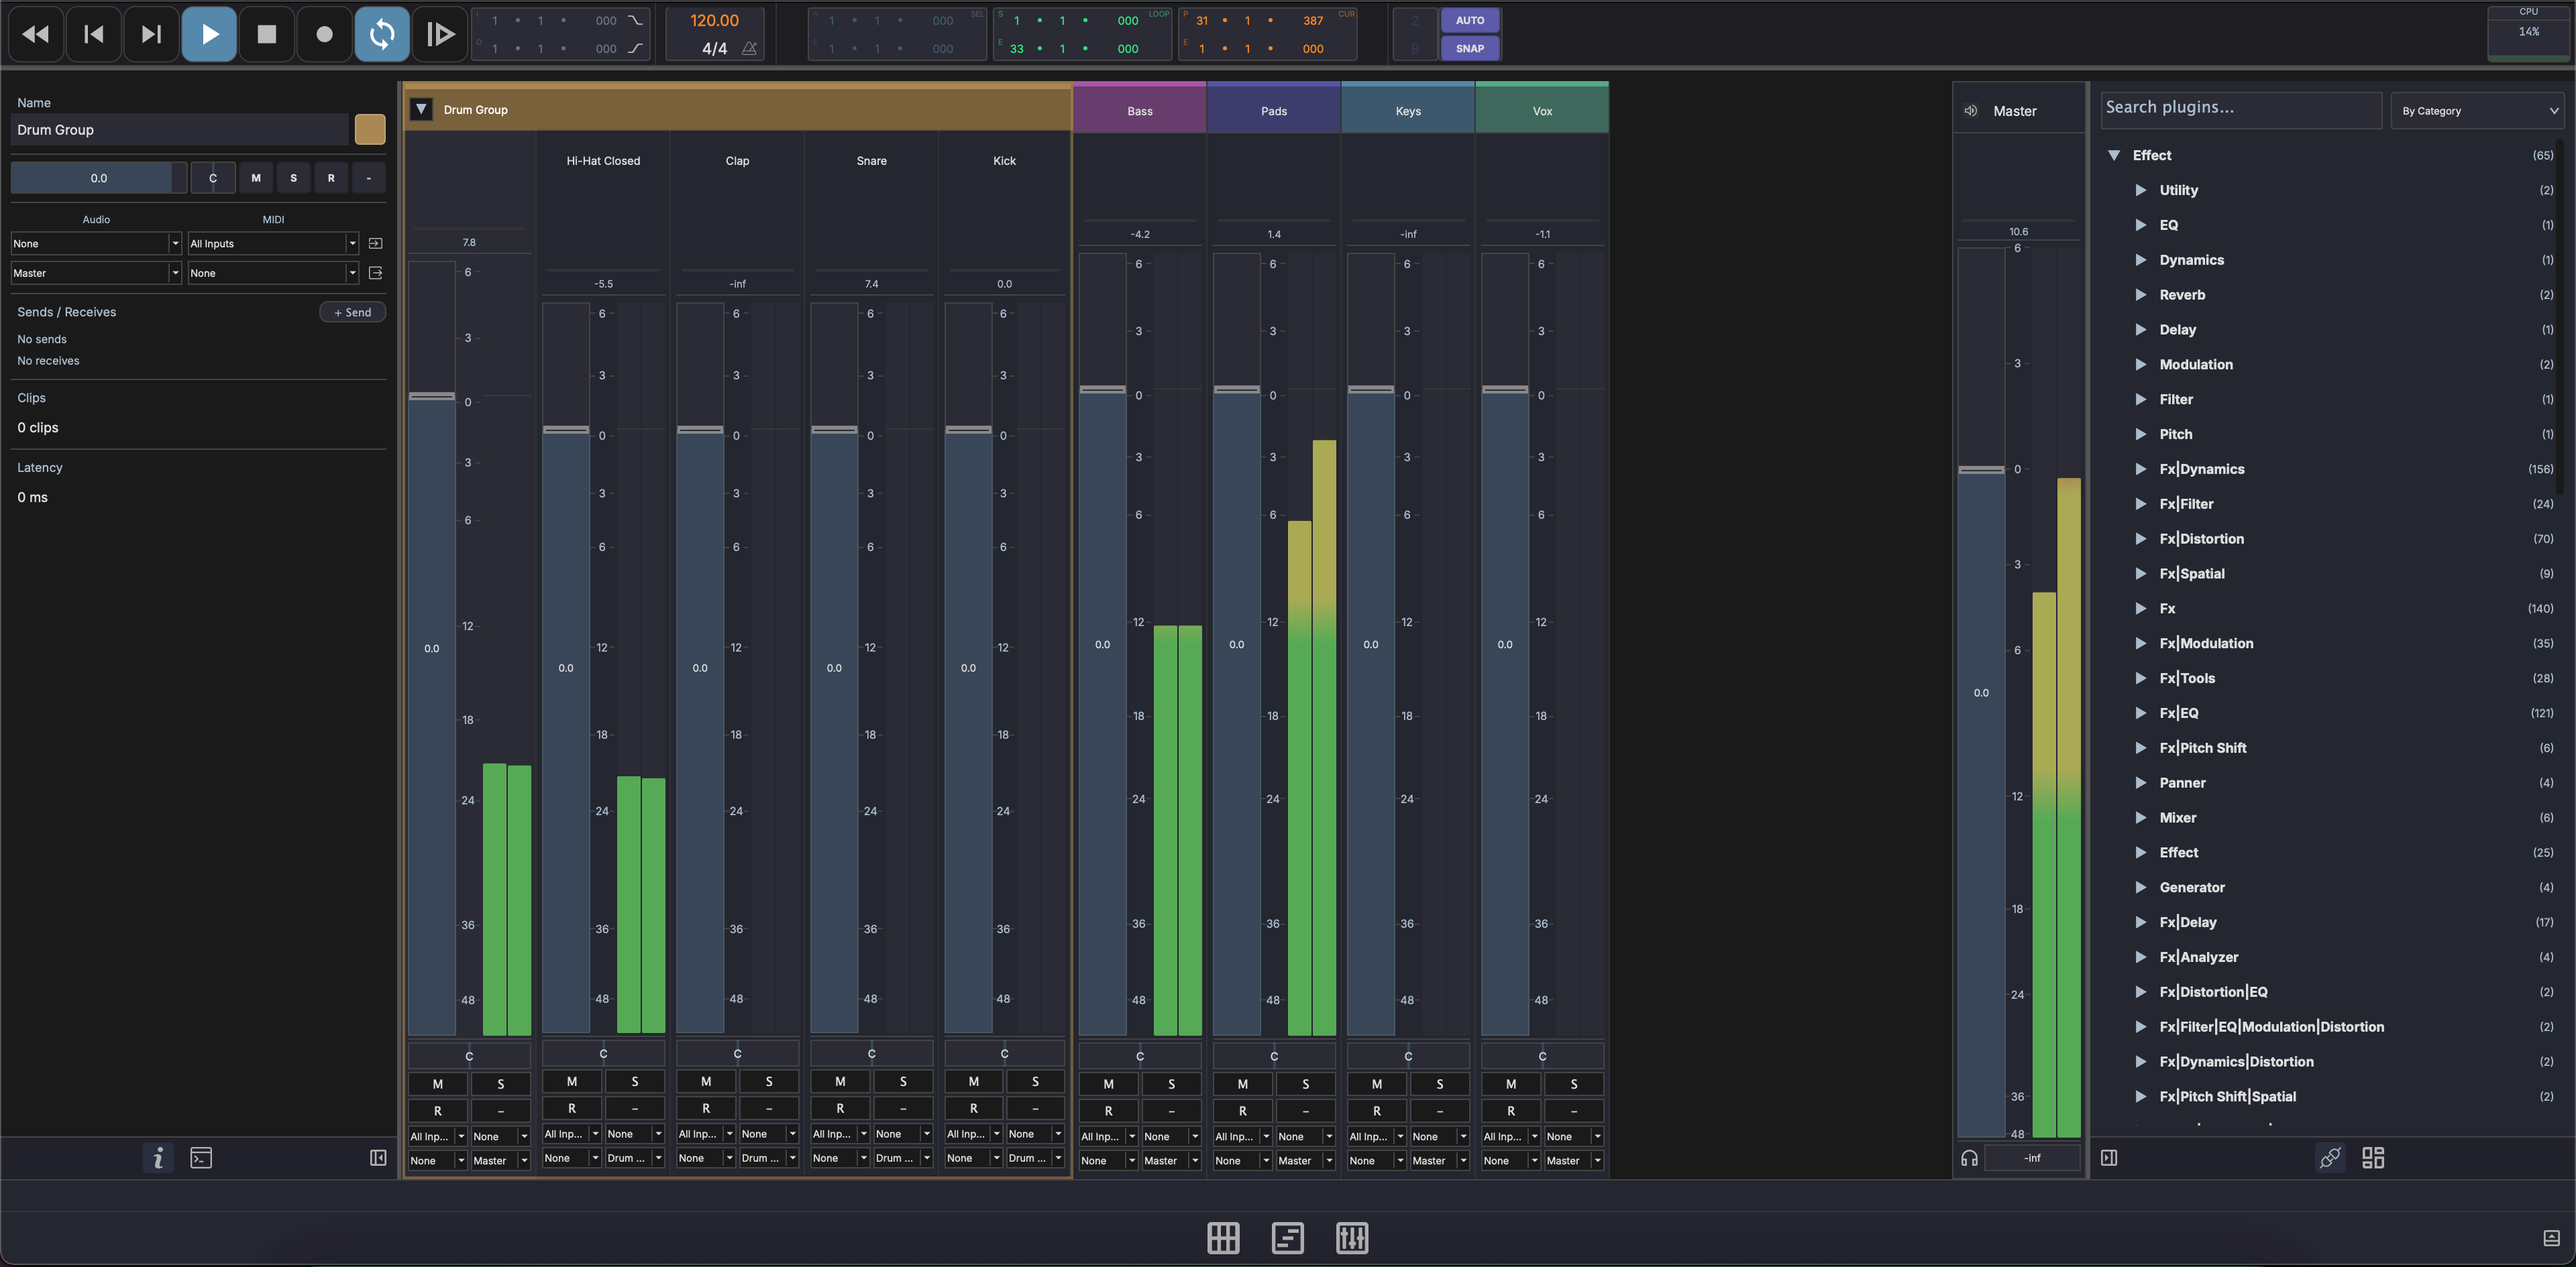
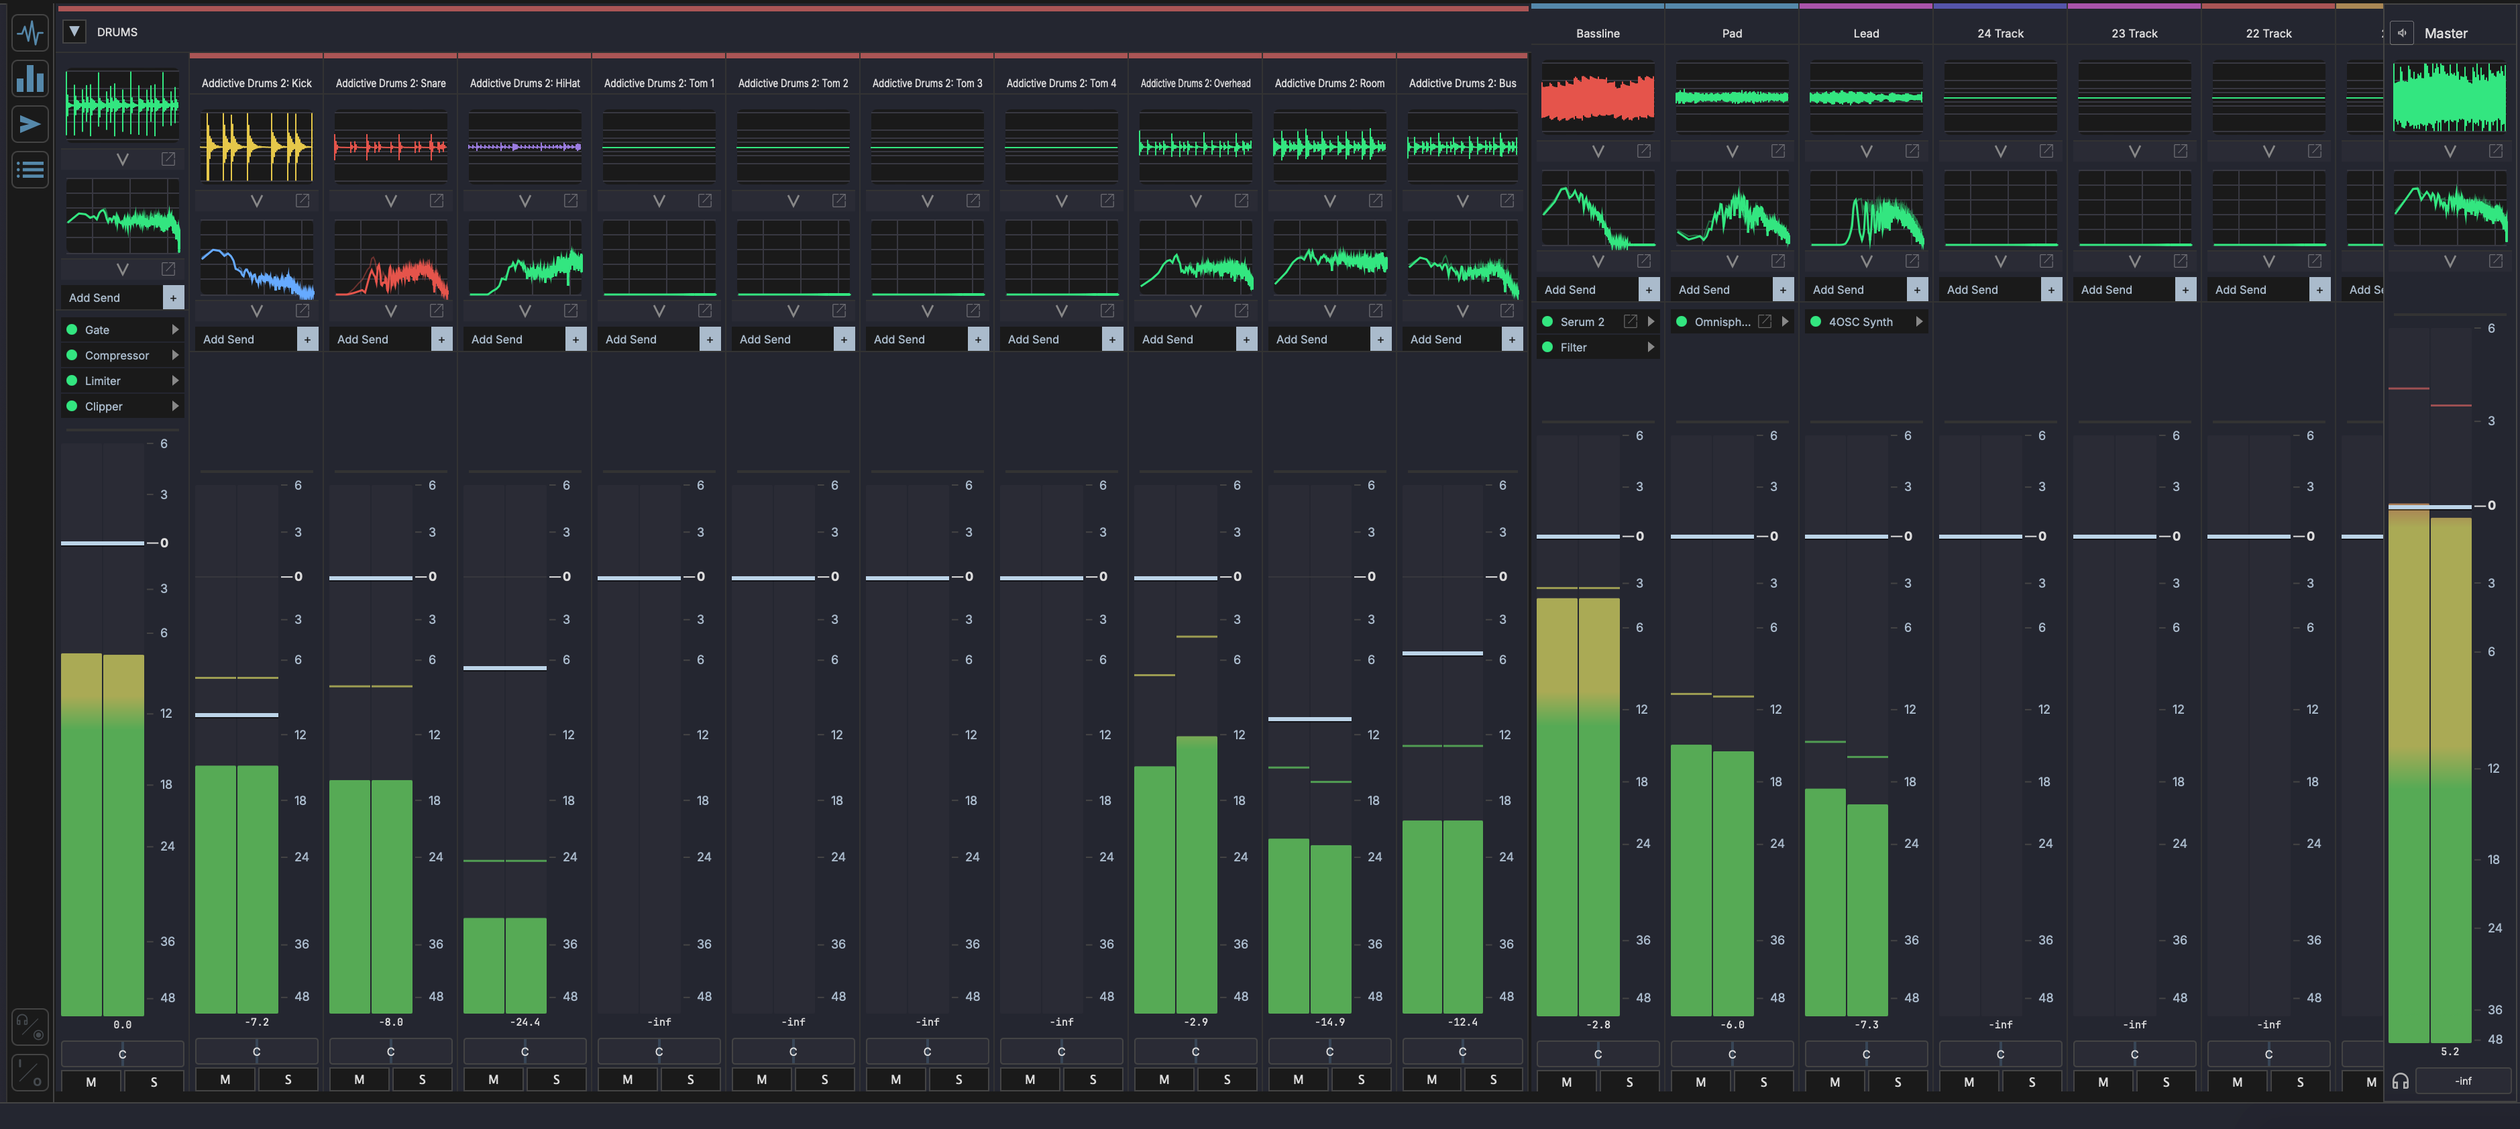
Update manual for 0.10
- New Analysis devices page (Oscilloscope + Spectrum) and nav entry
- FX Chain: Post-FX section and Gain Staging
- Mixer View: toggle rail, mini FX chain, mini analyzers, fader-over-
  meter with dB readout, auto-sized sends; refreshed screenshot
- Session View: mini-mixer toggle rail; refreshed screenshot
- Keyboard Shortcuts: remappable note + mouse/trackpad gestures table
- Preferences: Keyboard + Gestures tabs, auto-hide scrollbars
- Live input highlight (piano roll + drum grid), sample arrow-key
  auditioning

diff --git a/manual/docs/mixer-view.md b/manual/docs/mixer-view.md
@@ -30,17 +30,30 @@ The Mixer View provides a channel-strip interface for balancing levels, panning,
 
 Click a channel strip to select it. Drag plugins onto a channel strip to add them to the track's FX chain.
 
+## Toggle Rail
+
+A vertical rail of toggles runs down the left edge of the mixer. Each button shows or hides a row across every channel strip, so you can pare the mixer back to just the controls you need:
+
+- **Sends** — the send section
+- **I/O** — input and output routing selectors
+- **Monitor** — input monitoring controls
+- **Oscilloscope** — a mini oscilloscope per strip
+- **Spectrum** — a mini spectrum analyzer per strip
+- **FX Chain** — the strip's mini FX chain
+
+The rail's on/off state is remembered between sessions.
+
 ## Channel Strip Controls
 
 Each channel strip provides:
 
 ### Volume Fader
 
-Drag the fader to adjust the track's output level. The dB scale is displayed alongside the fader.
+Drag the fader to adjust the track's output level. The fader sits over the track's peak meter, with the current level shown as a dB readout below the thumb.
 
 ### Level Meters
 
-Stereo level meters (L/R) show the real-time signal level. A peak label displays the highest level reached — watch for clipping.
+The peak meter sits directly behind the fader and shows the real-time signal level. A peak value displays the highest level reached — watch for clipping.
 
 ### Pan
 
@@ -57,6 +70,14 @@ The pan control positions the track in the stereo field, from hard left to hard 
 
 The track name and color bar are displayed at the bottom of each strip for identification.
 
+### Mini FX Chain
+
+With the **FX Chain** toggle on, each strip shows a compact version of the track's FX chain. Each device row surfaces a handful of its parameters as faders, so you can tweak an effect without leaving the mixer. Choose exactly which parameters appear per device from the **Mini** column in the [parameter config dialog](plugin-parameters.md) — if none are chosen, the strip falls back to the device's first visible parameters. Third-party plugins also show a button to open their own UI; native MAGDA devices do not.
+
+### Mini Analyzers
+
+With the **Oscilloscope** or **Spectrum** toggle on, a mini [analyzer](devices/analysis.md) appears on each strip that carries the matching device. Click the expand chevron to unfold its controls beneath the trace, or the pop-out button to open the full analyzer in its own floating window.
+
 ## Master Channel Strip
 
 The master strip controls the final output level of the mix. It has its own volume fader, meters, and pan control but no mute/solo/record buttons.
@@ -72,13 +93,13 @@ Each channel strip has routing selectors for:
 
 ## Sends
 
-Each channel strip has a send section for routing audio to auxiliary buses.
+Each channel strip has a send section for routing audio to auxiliary buses. Show or hide it with the **Sends** toggle in the rail.
 
 - **Add a send** — Create a new send slot to route signal to an aux track
 - **Send level** — Adjust how much signal is sent to the aux bus
 - **Remove a send** — Click the remove button on a send slot to delete it
 
-The send section is resizable — drag the resize handle to show more or fewer send slots.
+The send section sizes itself to the number of sends across your tracks, so every strip stays aligned.
 
 ## Multi-Output Plugins
 

diff --git a/manual/docs/devices/analysis.md b/manual/docs/devices/analysis.md
@@ -1,0 +1,32 @@
+# Analysis (Oscilloscope & Spectrum)
+
+MAGDA ships two real-time analysis devices, an **Oscilloscope** and a **Spectrum Analyzer**. They tap the signal passing through them and draw it; they do not change the audio. Drag either from the Plugin Browser onto any track's FX chain, or add it to the [post-FX area](../fx-chain.md#post-fx-section) of a track or the master.
+
+Both devices also appear as compact [mini analyzers](../mixer-view.md#mini-analyzers) on the mixer strips, and either can be popped out into its own always-on-top window from the **open-in-window** button in the device header.
+
+## Oscilloscope
+
+The Oscilloscope draws the waveform in the time domain. It triggers on a zero crossing so the trace holds still instead of scrolling, and renders a stable min/max envelope of the signal.
+
+| Control | What it does |
+|---------|--------------|
+| **Timebase** | How much time the display spans, from a few milliseconds up to a few seconds. Shorter shows individual cycles; longer shows the overall envelope. |
+| **Trace colour** | Pick the waveform colour from a small set of swatches. The choice is saved with the device. |
+
+dBFS reference lines mark the amplitude scale so you can read level at a glance.
+
+## Spectrum Analyzer
+
+The Spectrum Analyzer draws the frequency content of the signal. It runs a windowed FFT and plots magnitude against a logarithmic frequency axis.
+
+| Control | What it does |
+|---------|--------------|
+| **FFT size** | Resolution of the analysis. Larger gives finer frequency detail at the cost of a slower response. |
+| **Slope** | Tilts the display by a fixed dB-per-octave amount, so a natural spectrum reads flatter and high-frequency detail is easier to see. |
+| **Smoothing** | How quickly the curve reacts — slower smoothing is steadier, faster is more responsive. |
+| **Trace colour** | Pick the curve colour from a small set of swatches. |
+
+A **peak-hold** line sits on top of the live curve, marking the highest level reached in each band. The frequency axis runs across the audible range with a dB magnitude scale down the side.
+
+!!! note
+    Both analyzers refresh continuously and add no latency or gain to the signal, so you can leave them inserted anywhere in a chain. In the post-FX area, only one Oscilloscope and one Spectrum Analyzer can exist per track.

diff --git a/manual/docs/fx-chain.md b/manual/docs/fx-chain.md
@@ -89,3 +89,24 @@ Click the **+** button next to "Chains" to add a new parallel chain.
 ### Collapsible Devices
 
 Individual devices inside a rack can be collapsed to save space. Click the collapse button on a device to shrink it to a compact header. The rack resizes dynamically as devices are collapsed or expanded. Collapsed states are preserved when the chain rebuilds (e.g. when adding or removing devices).
+
+## Post-FX Section
+
+In addition to the main FX chain, every track and the master have a **post-FX area** — a stage that runs *after* the main chain and *before* the track fader. It is the natural home for meters and analyzers, but any effect can live there.
+
+Toggle the post-FX area from the buttons in the track chain header, then drop an [Oscilloscope or Spectrum Analyzer](devices/analysis.md), or any effect, into it. The panel opens automatically when a track has post-FX devices.
+
+!!! note
+    Each analyzer kind is unique per track in the post-FX area — one Oscilloscope and one Spectrum Analyzer at most — while regular effects can repeat.
+
+## Gain Staging
+
+Gain staging trims the output of every device in a chain so the whole chain holds a target headroom, without adjusting each one by hand.
+
+Open it from the gain-staging button in the track chain header, set your **target peak** (default -12 dBFS), play a representative section of the song, and stop. MAGDA works out the trims:
+
+- It only **attenuates**, never boosts.
+- It carries the gain forward down the chain, so later devices see consistent levels.
+- Every fader it moves stays **marked** so you can see the pass at a glance, until you change it or run another pass.
+
+The whole pass is a single undoable step. An optional **AI pass** can weigh limiters and saturators in the chain instead of applying a flat target.

diff --git a/manual/docs/interface/preferences.md b/manual/docs/interface/preferences.md
@@ -17,6 +17,7 @@ The dialog is organised into sections; each section is described below.
 
 - **Panel visibility defaults** — Choose which panels are shown on startup
 - **Behavior settings** — Configure UI interaction preferences
+- **Auto-hide arrangement scrollbars** — Keep the arrangement scrollbars hidden until you hover near them, for a cleaner workspace
 - **Language** — Select the UI language from the dropdown. The list is populated from the locale files (`.json`) shipped in MAGDA's `lang/` folder, so available languages grow as translations are contributed. A restart-required hint appears after switching; the new language takes effect the next time MAGDA launches. See [Localization](../localization.md) for how translations are managed and how to contribute.
 
 ### UI Scale
@@ -71,7 +72,9 @@ See [AI Settings](ai-settings.md) for the full reference.
 
 ## Shortcuts
 
-- **Keyboard shortcuts** — View and customize all keyboard shortcuts
-- **Reset to defaults** — Restore the default shortcut mappings
+Two tabs:
 
-See [Keyboard Shortcuts](../reference/keyboard-shortcuts.md) for the full default shortcut list.
+- **Keyboard** — view and remap every keyboard shortcut, with a reset-to-defaults option
+- **Gestures** — remap the mouse and trackpad wheel gestures (scroll, zoom, track height) per context
+
+Both are saved between sessions. See [Keyboard Shortcuts](../reference/keyboard-shortcuts.md) for the full default list of keys and gestures.

diff --git a/manual/docs/reference/keyboard-shortcuts.md b/manual/docs/reference/keyboard-shortcuts.md
@@ -1,5 +1,7 @@
 # Keyboard Shortcuts
 
+Everything below is the **default** mapping. You can remap any shortcut from **Settings > Preferences > Shortcuts**, on the **Keyboard** tab, and reset to defaults at any time. Mouse and trackpad gestures are remappable on the **Gestures** tab of the same page — see [Mouse & Trackpad Gestures](#mouse-trackpad-gestures). Your changes are saved between sessions.
+
 ## Transport
 
 | Shortcut | Action |
@@ -32,6 +34,20 @@
 |----------|--------|
 | ++cmd++ + click (++ctrl++ + click on Windows/Linux) | Toggle arrangement clip selection |
 | ++shift+ctrl++ + click | Erase arrangement clip under cursor |
+
+## Mouse & Trackpad Gestures
+
+Wheel and trackpad gestures are context-aware and remappable from **Settings > Preferences > Shortcuts > Gestures**. The defaults (use ++ctrl++ for ++cmd++ on Windows/Linux):
+
+| Gesture | Action |
+|---------|--------|
+| Wheel | Scroll vertically |
+| ++shift++ + wheel | Scroll horizontally |
+| ++cmd++ + wheel | Zoom horizontally toward the cursor |
+| ++alt++ + wheel | Adjust track height (arrangement) |
+| Trackpad horizontal swipe | Scroll horizontally |
+
+In the **piano roll**, ++alt++ + wheel changes note-row height. In the **drum grid**, ++alt++ + wheel changes row height and ++cmd++ + wheel zooms the timebase.
 
 ## Tracks
 

diff --git a/manual/docs/panels/piano-roll.md b/manual/docs/panels/piano-roll.md
@@ -13,6 +13,7 @@ Displayed in the bottom panel when a MIDI clip is selected. Provides a grid for 
 - **Drag edges** to resize note length
 - ++cmd++ **+ click** a note to delete it directly. If the note is part of a multi-selection, the whole group is erased. Acts as a rubber tool.
 - **Velocity lane** at the bottom for editing note velocities
+- **Live input highlight** — with the track's input monitoring on, the keyboard lights up notes as you play them (MIDI or computer keyboard) and scrolls a held note into view
 
 !!! note "Header controls"
     - **Grid resolution** — Draggable numerator/denominator for grid subdivision

diff --git a/manual/docs/devices/built-in.md b/manual/docs/devices/built-in.md
@@ -22,6 +22,10 @@ MAGDA ships with its own native MIDI devices, instruments, and effects. All buil
 
 The MAGDA FX bank is a set of native effects compiled from Faust DSP and shipped with every MAGDA installation. See [Effects](effects.md) for the full list, grouped by category.
 
+## Analysis
+
+Real-time visual analyzers — an **Oscilloscope** and a **Spectrum Analyzer** — that tap the signal without changing it, on the FX chain or in the post-FX area. See [Analysis](analysis.md).
+
 ## External Plugins
 
 In addition to built-in devices, MAGDA supports external plugins in the following formats:

diff --git a/manual/docs/session-view.md b/manual/docs/session-view.md
@@ -72,9 +72,9 @@ A **master strip** is also available for the main output level.
 
 The fader row is resizable — drag the top edge to make it taller or shorter.
 
-### I/O and Send Rows
+### Toggle Rail
 
-Optional rows for I/O routing and send levels can be toggled on or off to keep the view compact or show more detail.
+A toggle rail along the side of the mini mixer shows or hides its rows — I/O routing and sends among them — the same way the [Mixer View](mixer-view.md#toggle-rail) does. Keep the view compact or expand it for more detail.
 
 ## Drag and Drop
 

diff --git a/manual/docs/panels/drum-grid-editor.md b/manual/docs/panels/drum-grid-editor.md
@@ -8,6 +8,7 @@ Displayed in the bottom panel when a drum clip is selected or a DrumGrid device 
 - **Columns** represent time steps
 - **Click** cells to toggle hits on/off
 - **Velocity** per hit is adjustable
+- **Live input highlight** — with the track's input monitoring on, pad rows light up as you play them and the played row scrolls into view
 
 !!! note "Header controls"
     - **Grid resolution** — Draggable numerator/denominator for grid subdivision

diff --git a/manual/docs/panels/browsers.md b/manual/docs/panels/browsers.md
@@ -47,6 +47,7 @@ The Media Explorer lets you browse files on your system and preview audio before
 
 - Click an audio file to preview it through your monitor output
 - Preview plays in sync with the transport tempo when applicable
+- With **Auto** on, ++arrowup++ / ++arrowdown++ step through results and audition each one as it is selected; ++arrowleft++ stops the preview and ++arrowright++ replays it from the start
 
 ### Filters
 
